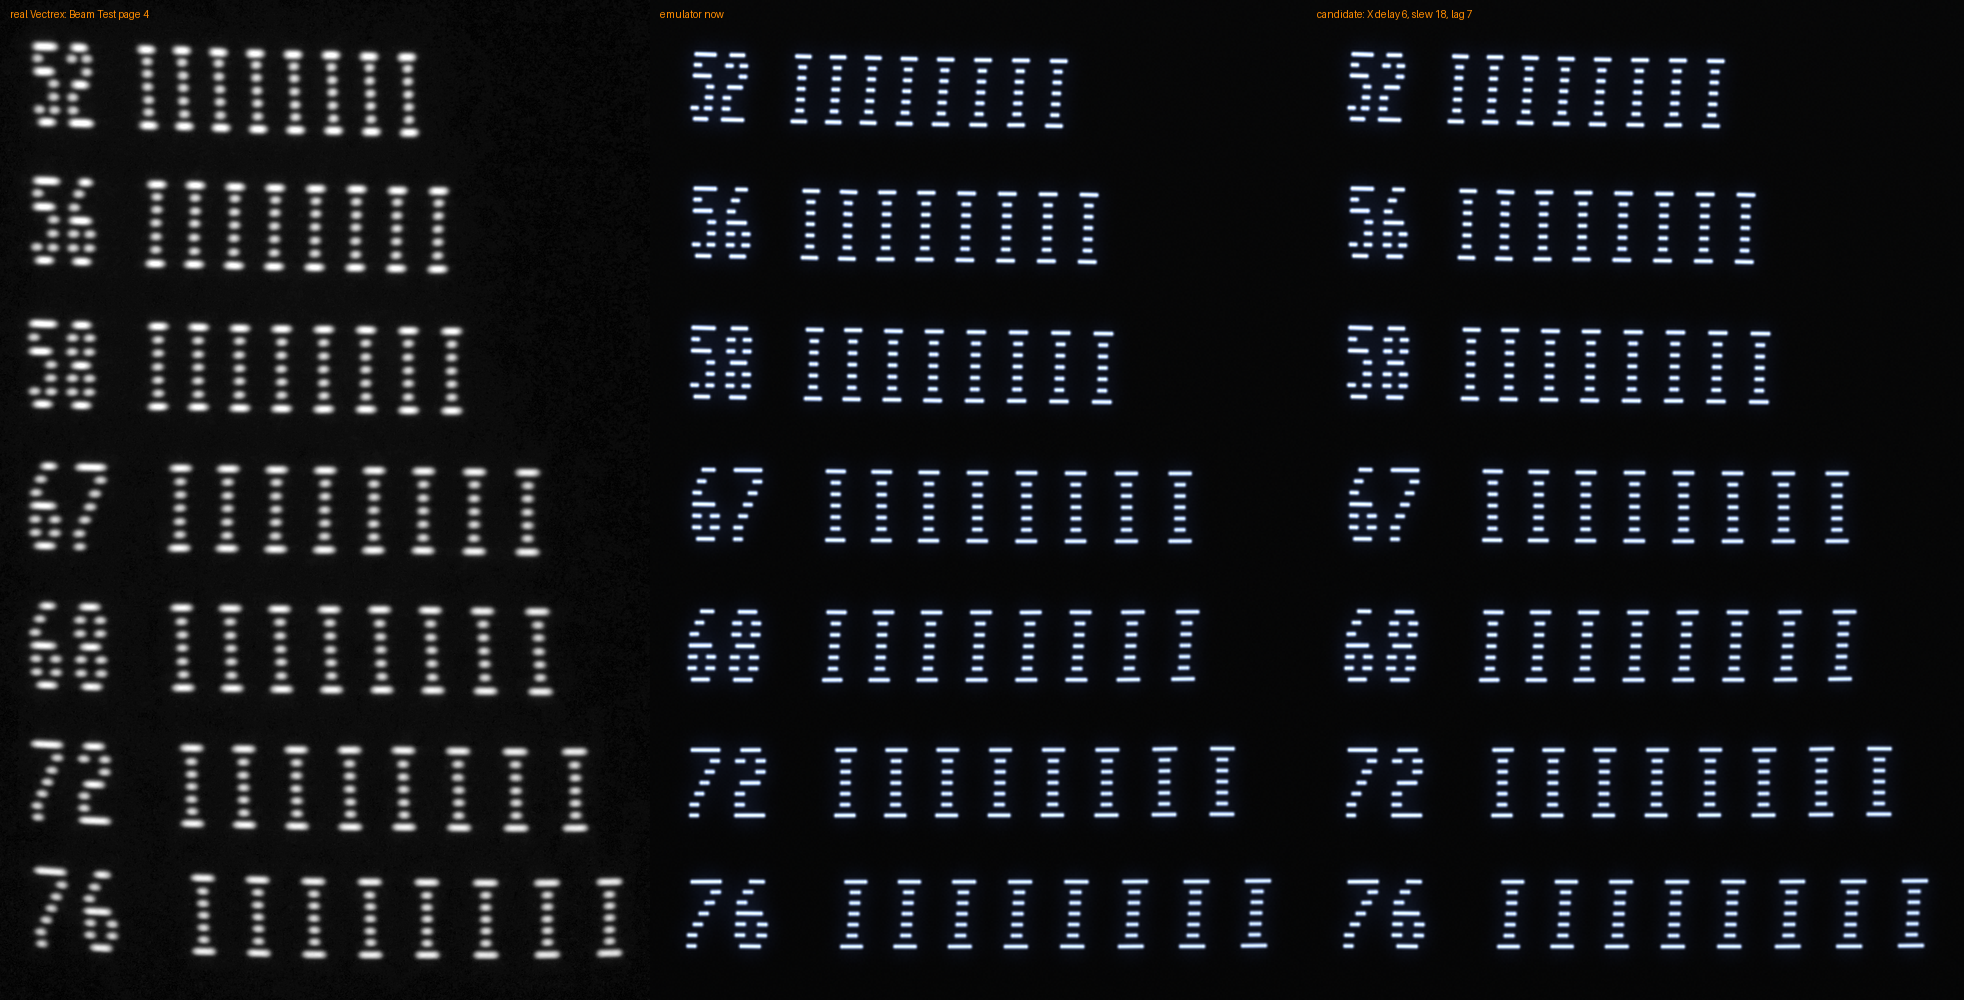
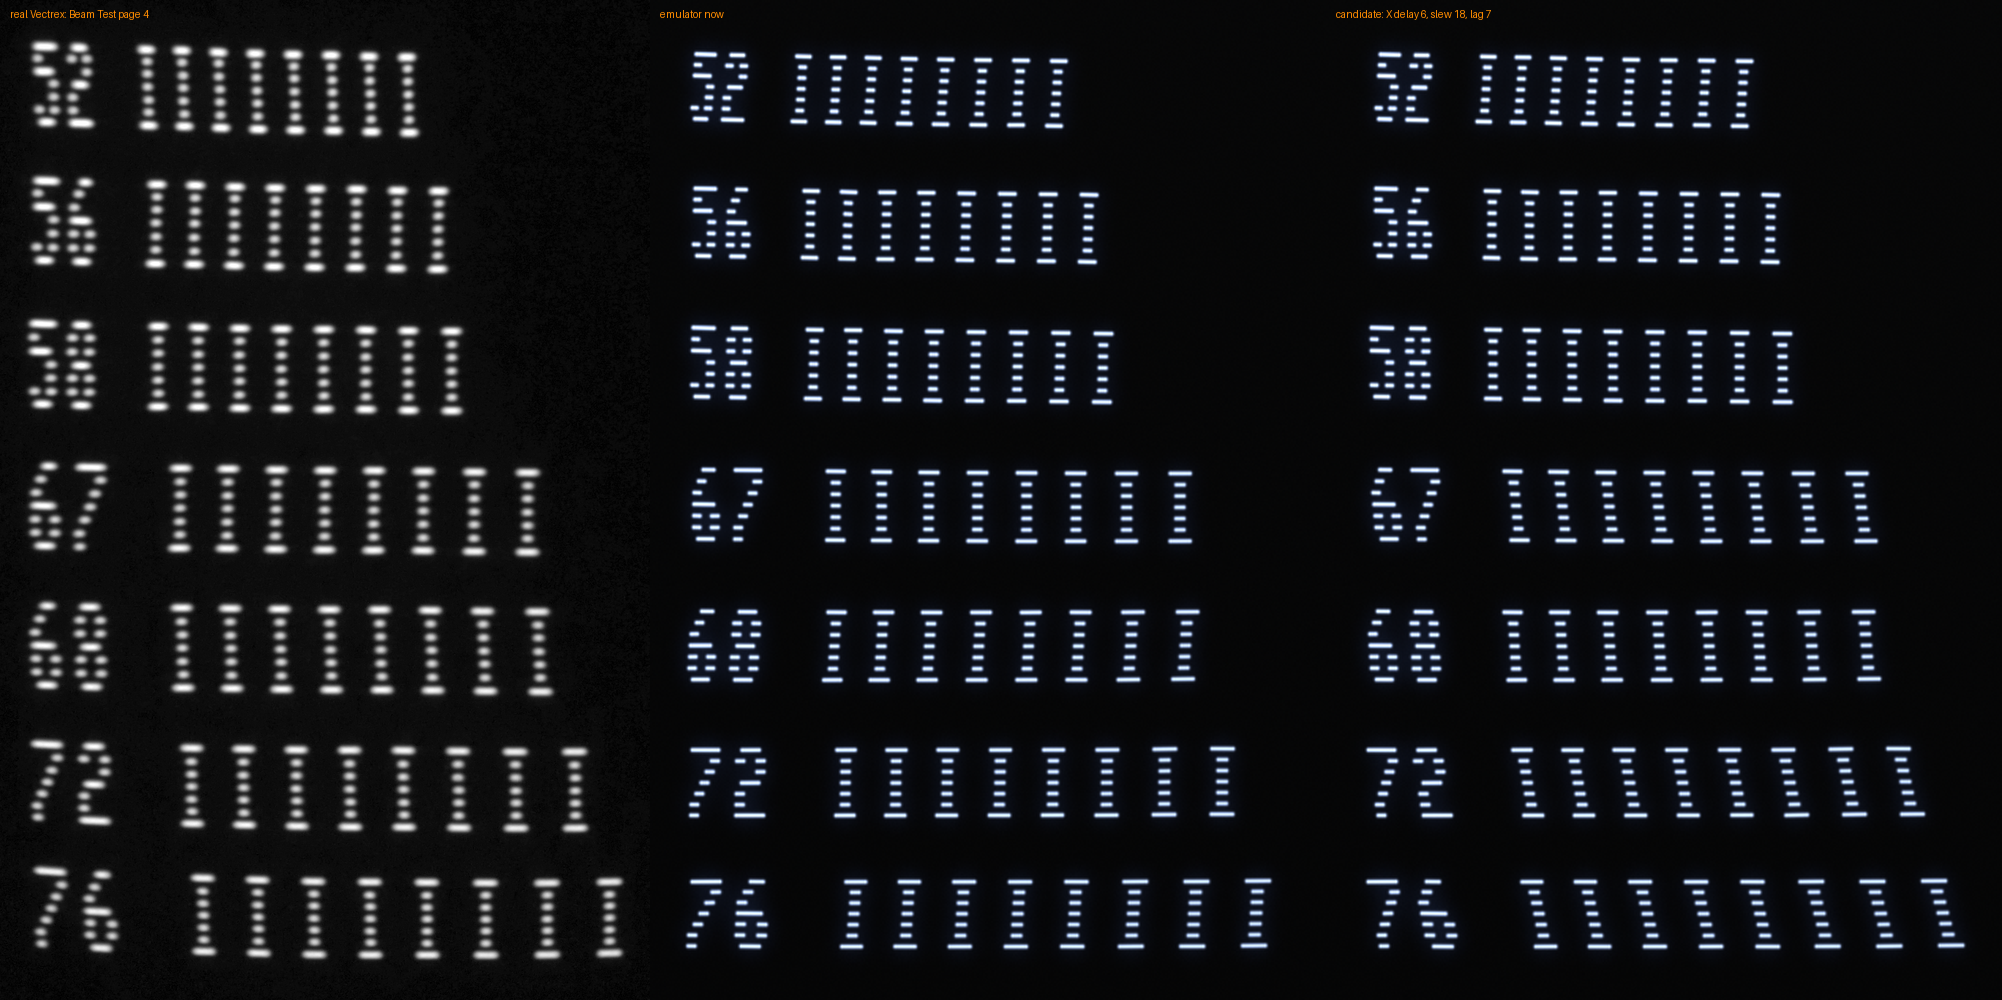
Core: VT_XSLEW (test switch, off) in both DAC branches - it was missing where the DAC's bit errors are on, so the app and the libretro core ran without it: the 'slew' renders showed X delay 6 alone, the X flip before the stop (the hump before the corner's dot the owner saw). testcart/compare: slew_*

diff --git a/src/core/vecx.c b/src/core/vecx.c
@@ -1626,18 +1626,17 @@ static void alg_sstep_full (void)
 		dly_z[dly_p & 63] = (unsigned char) via_ca2; dly_p++;
 		unsigned xd = dly_x[(dly_p - 1 - dly_nx) & 63], yd = dly_y[(dly_p - 1 - dly_ny) & 63];
 		zero_now = dly_z[(dly_p - 1 - dly_nz) & 63];
-		if (dac_on > 0) {                                   /* (the DAC's bit errors: the hold's value as it charged) */
-			adx = (long) (dacv (xd) * ZS) - (long) ((alg_rshf + alg_zofs) * ZS) + alg_xofs;
-			ady = (long) ((alg_rshf + alg_zofs) * ZS) - (long) (dly_yf[(dly_p - 1 - dly_ny) & 63] * ZS) + alg_yofs;
-		} else {
+		double xdv = dac_on > 0 ? dacv (xd) : (double) xd;      /* (the DAC's level for X: with its bit errors, if any) */
 		{ static double xsl_s = -2, xsl; static int xsl_init;   /* VT_XSLEW=S (a test switch, off): the X speed follows the DAC at S
 		    * DAC steps a cycle at most - the owner's Switch Test, 2026-11-21: a turn's cut grows faster than the step (pages 2 and
-		    * 3: X delay 2 + slew 16 fits the corners' cuts and the dots' places; the fixed delay 9 its average) */
+		    * 3); in both branches below (the first version missed the DAC-errors one: the app and the libretro core ran without) */
 		  if (xsl_s < -1) { const char *z = getenv ("VT_XSLEW"); xsl_s = z ? atof (z) : 0.0; }
-		  if (xsl_s > 0.01) { if (!xsl_init) { xsl_init = 1; xsl = xd; } { double d = (double) xd - xsl; xsl += d > xsl_s ? xsl_s : d < -xsl_s ? -xsl_s : d; }
-		    adx = (long) (xsl * ZS) - (long) ((alg_rshf + alg_zofs) * ZS) + alg_xofs; }
-		  else
-		adx = (long) xd * ZS - (long) ((alg_rshf + alg_zofs) * ZS) + alg_xofs; }
+		  if (xsl_s > 0.01) { if (!xsl_init) { xsl_init = 1; xsl = xdv; } { double d = xdv - xsl; xsl += d > xsl_s ? xsl_s : d < -xsl_s ? -xsl_s : d; } xdv = xsl; } }
+		if (dac_on > 0) {                                   /* (the DAC's bit errors: the hold's value as it charged) */
+			adx = (long) (xdv * ZS) - (long) ((alg_rshf + alg_zofs) * ZS) + alg_xofs;
+			ady = (long) ((alg_rshf + alg_zofs) * ZS) - (long) (dly_yf[(dly_p - 1 - dly_ny) & 63] * ZS) + alg_yofs;
+		} else {
+		adx = (long) (xdv * ZS) - (long) ((alg_rshf + alg_zofs) * ZS) + alg_xofs;
 		ady = (long) ((alg_rshf + alg_zofs) * ZS) - (long) yd * ZS + alg_yofs;
 		}
 	}

diff --git a/tools/photo_match/README.md b/tools/photo_match/README.md
@@ -129,3 +129,10 @@ logo and the Dot Test's corners with a candidate):
   cut rms 0.28 (today 0.65), the logo 1.26 (1.28), the Dot Test's 90 degree corners 2.05 / 1.39 / 0.42 at rests 0 / 8 / 16
   (photo 1.71 / 1.82 / 0.84, today 1.83 / 0.95 / 0.26); the Corner Test round at rests 0-12 and sharp from 24 as the photo;
   the Gap Test's lines and squares, the Lag Test and Vectorblade's logo as today. `VT_XYZDLY=6,9,8 VT_XSLEW=18 VT_DEFLAG=7`.
+- **Correction (the same evening)**: `VT_XSLEW` sat only in the branch without the DAC's bit errors; the app and the libretro
+  core run the other one, so every `slew_*.png` render before this line showed "X delay 5 / 6, no slew" - the X flip a cycle
+  or two before the stop: the hump before the dot (the owner saw it), and the rounding that looked like the photo's. Fixed
+  (both branches), all `slew_*.png` and `corners_proposed.png` rendered again: no hump; on the Corner Test the slew's
+  change is small (rest 0 and 5 a little rounder). The numbers above (Switch Test cuts, logo, Dot Test corners) came from
+  the headless core, where the slew was active - they stand. Lesson: check a core switch in the build that makes the
+  pictures, and look at corners at full size.
